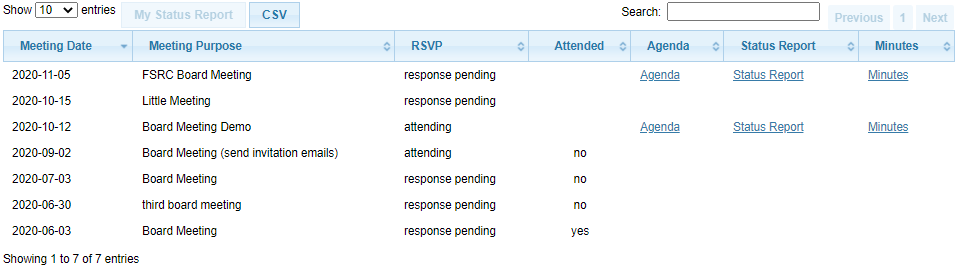
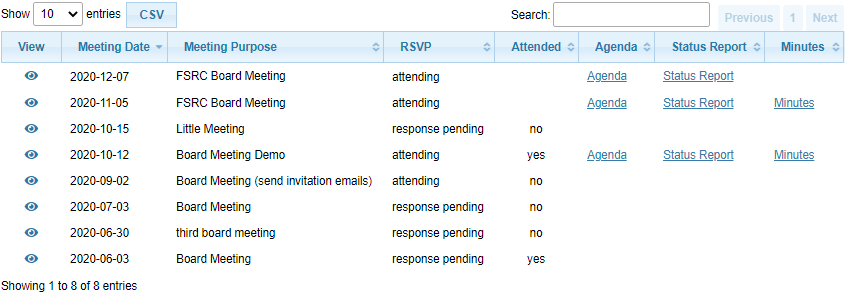
My Meetings view: quick access to My Status Report page
* https://github.com/louking/members/issues/293
* also refactor row-icon rendering, row-icon click event handling for My Status Report

diff --git a/members/static/admin/afterdatatables.js b/members/static/admin/afterdatatables.js
@@ -266,11 +266,16 @@ function afterdatatables() {
             _dt_table.draw();
         });
 
-    // special processing for meeting
+    // special processing for memberstatusreport, theirstatusreport
     } else if (location.pathname.includes('/memberstatusreport') || location.pathname.includes('/theirstatusreport')) {
         // update 'needsedit' class depending on value of statusreport field
         editor.on('preEdit', function(e, json, data, id) {
             $($(editor.s.table).DataTable().row('#'+id).node()).removeClass('needsedit');
         });
+        onclick_trigger(_dt_table, 'td.edit-control', 'editRefresh');
+
+    // special processing for mymeetings
+    } else if (location.pathname.includes('/mymeetings')) {
+        onclick_trigger(_dt_table, 'td.view-control', 'view-status');
     }
 }

diff --git a/members/static/admin/style.css b/members/static/admin/style.css
@@ -102,3 +102,10 @@
     color: green;
 }
 
+/* view selection/control management */
+td.view-control {
+    text-align: center;
+    cursor: pointer;
+    /* same as jquery-ui-theme.css ui_state_default */
+    color: #2779aa;
+}

diff --git a/members/static/admin/beforedatatables.js b/members/static/admin/beforedatatables.js
@@ -603,4 +603,3 @@ function discussionitems_postcreate(dt, ed) {
     }
 }
 
-

diff --git a/members/views/admin/meetings_member.py b/members/views/admin/meetings_member.py
@@ -695,6 +695,17 @@ mymeetings = MyMeetingsView(
     formmapping=mymeetings_formmapping,
     checkrequired=True,
     clientcolumns=[
+        {'data': '',  # needs to be '' else get exception converting options from meetings render_template
+         # TypeError: '<' not supported between instances of 'str' and 'NoneType'
+         'name': 'view-control',
+         'className': 'view-control shrink-to-fit',
+         'orderable': False,
+         'defaultContent': '',
+         'label': '',
+         'type': 'hidden',  # only affects editor modal
+         'title': 'View',
+         'render': {'eval': 'render_icon("fas fa-eye")'},
+         },
         {'data': 'date', 'name': 'date', 'label': 'Meeting Date',
          'type': 'readonly'
          },
@@ -729,8 +740,10 @@ mymeetings = MyMeetingsView(
     buttons=[
         {
             'extend': 'edit',
+            'name': 'view-status',
             'text': 'My Status Report',
-            'action': {'eval': 'mystatus_statusreport'}
+            'action': {'eval': 'mystatus_statusreport'},
+            'className': 'Hidden',
         },
         'csv',
     ],

diff --git a/docs/meetings-member-guide.rst b/docs/meetings-member-guide.rst
@@ -58,11 +58,13 @@ generated about the meeting.
 To navigate to the :ref:`My Status Report view`, where you can :term:`RSVP <rsvp>` and enter your
 :term:`status reports <status report>`,
 
-* select the meeting
-* click **My Status Report**
+* on the row with the :term:`meeting` you want to :term:`RSVP <rsvp>` and enter your :term:`status report`, click
+  the view button (|icon-view-2779aa|)
 
 .. image:: images/my-meetings-view.*
     :align: center
+
+.. |icon-view-2779aa| image:: images/icon-view-2779aa.*
 
 
 .. _My Status Report view:
